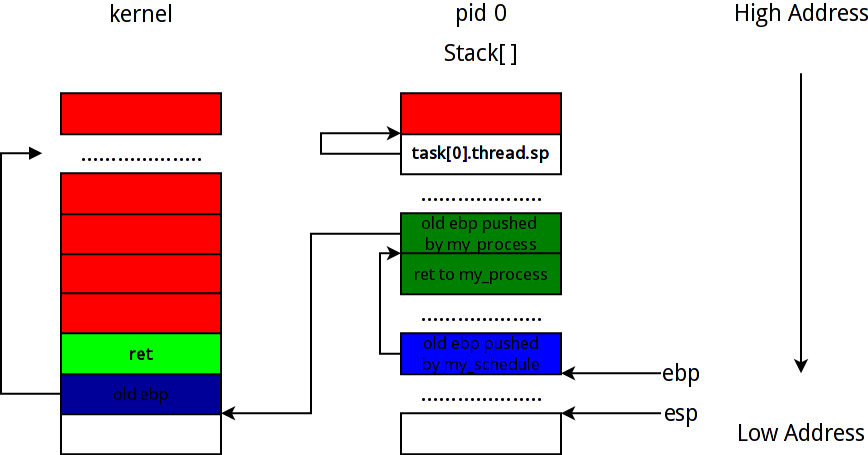
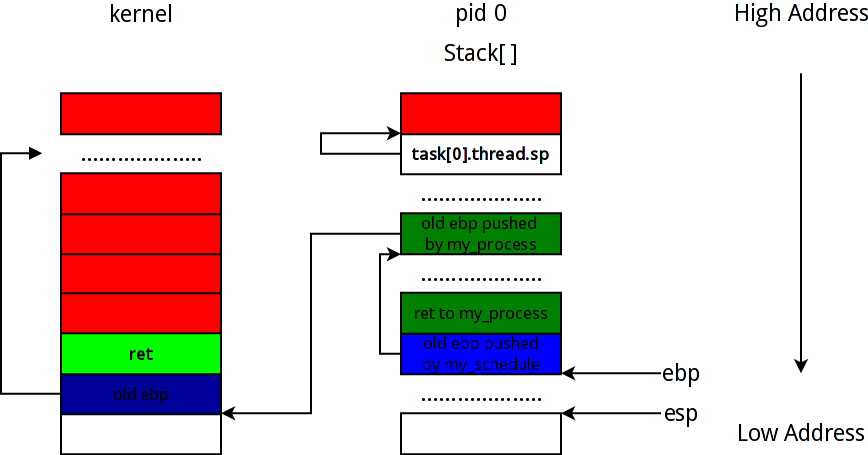
sync

Changed region(s): [[0.4355, 0.5538, 0.6532, 0.7385], [0.4666, 0.3077, 0.6221, 0.3692]]

diff --git a/secondWeekend/processSwitch.md b/secondWeekend/processSwitch.md
@@ -267,6 +267,6 @@ movl %esp, %ebp
 
 	"ret\n\t" /* restore eip */
 从当前栈task[1].stack中弹出刚刚送入的1号进程的入口地址，启动1号进程，进入1号进程后，同样有如下动作，当1号进程的my_process()方法内的局部变量i满足if语句条件后，将检查是否需要调度，这里我们同样假设调度标志已经为真，且经过sand_priority()方法后下一个将被运行的进程为0号进程，则进入my_schedule()开始调度。
-此时运行栈情况如图：
+当执行玩my_schedule()的Prolog后，运行栈情况如图：
 
 ![pid 1 stack when  schedule](./pic/stack_status/pid1_2.png)
